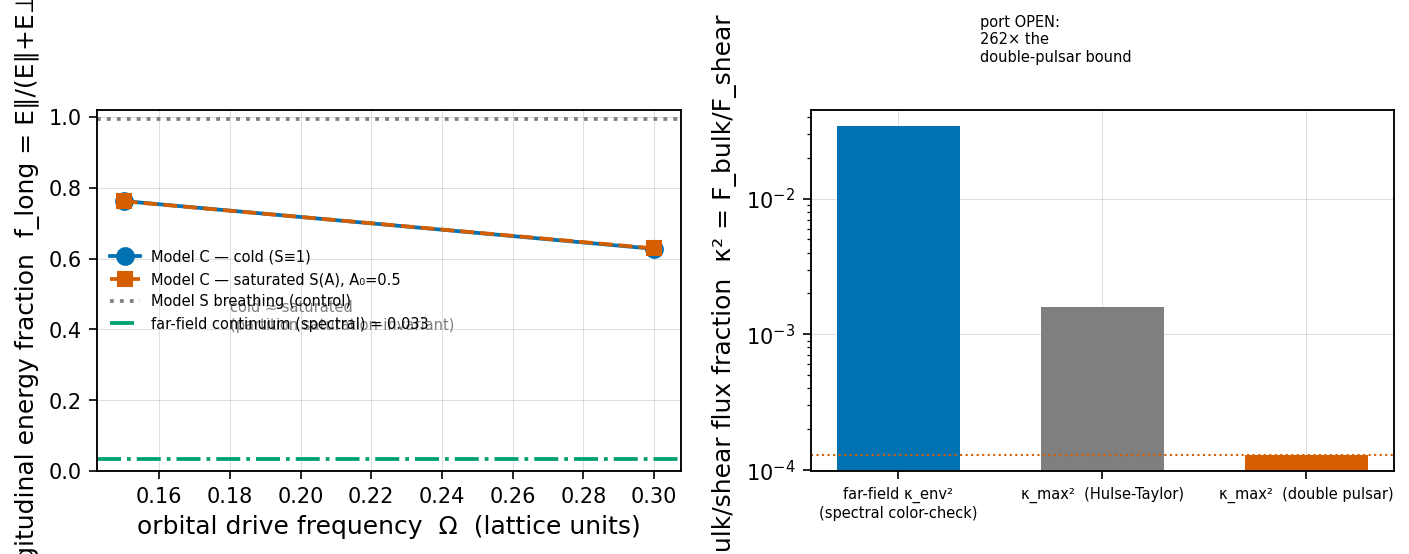
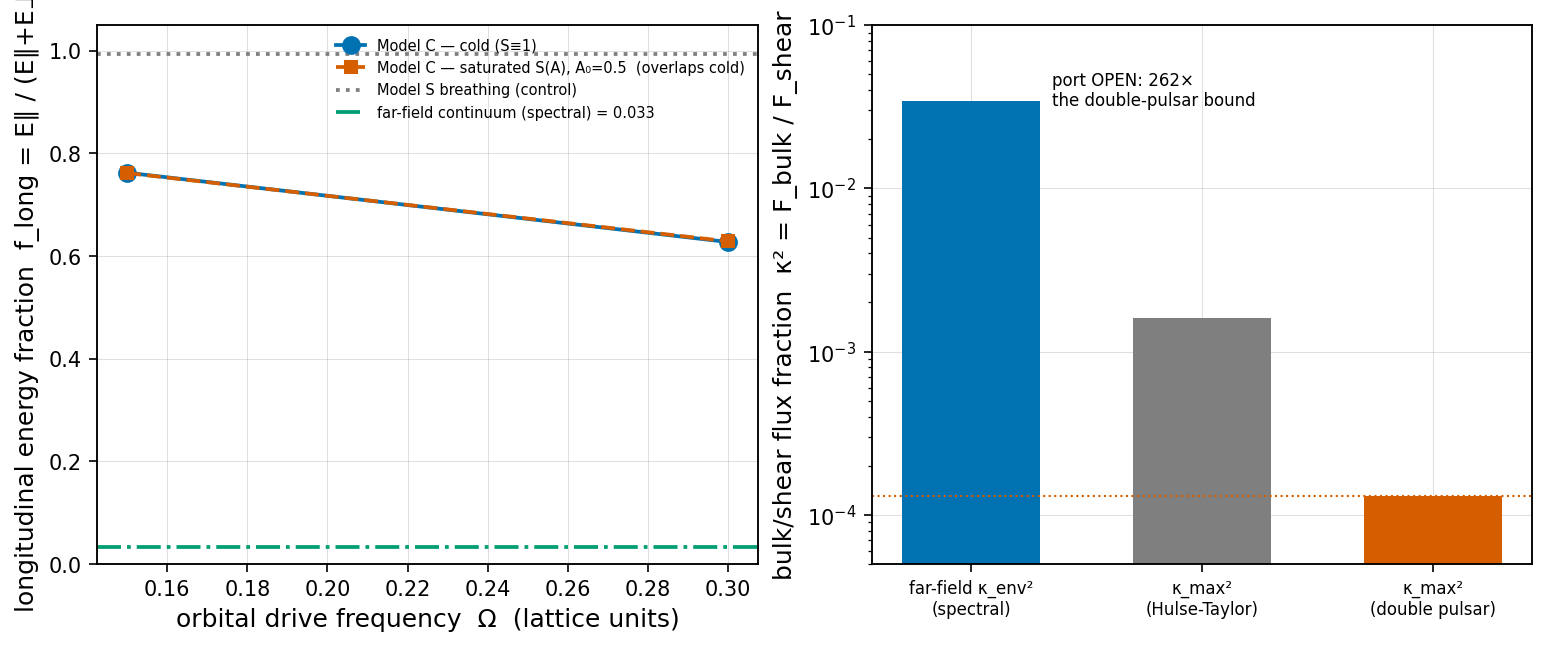
research(driver): figure layout fix (unclip y-labels, declutter legend) — plotting-only, JSON bit-identical
Plotting-only change (subplots_adjust margins, legend to upper-right, tightened
annotations). Confirmed JSON UNCHANGED (numeric results bit-identical). White
style, Okabe-Ito, honest axes+units, no on-figure title. The figure shows Model C
cold/saturated overlapping exactly (saturation-invariance) and the far-field
kappa_env^2=0.034 towering 262x over the double-pulsar kill-line.

diff --git a/research/drivers/envelope_sector_orbiting_lump.py b/research/drivers/envelope_sector_orbiting_lump.py
@@ -322,38 +322,35 @@ def make_figure(out, path_png):
     cc = out["spectral_cold"]["continuum_import_colorcheck_F_bulk_over_F_shear"]
     fl_ff = cc / (1.0 + cc)   # far-field longitudinal fraction from the color-check
 
-    fig, (axL, axR) = plt.subplots(1, 2, figsize=(9.6, 3.9))
+    fig, (axL, axR) = plt.subplots(1, 2, figsize=(10.2, 4.2))
+    fig.subplots_adjust(left=0.11, right=0.98, bottom=0.15, top=0.90, wspace=0.32)
 
     axL.plot(oms, fl_cold, "o-", color=C["ave"], label="Model C — cold (S≡1)", ms=8)
     axL.plot(oms, fl_sat, "s--", color=C["comparison"],
-             label="Model C — saturated S(A), A₀=0.5", ms=7)
+             label="Model C — saturated S(A), A₀=0.5  (overlaps cold)", ms=6)
     axL.axhline(out["model_S_breathing_control"]["f_long_window"], color=C["muted"],
                 ls=":", label="Model S breathing (control)")
     axL.axhline(fl_ff, color=C["accent"], ls="-.",
                 label=f"far-field continuum (spectral) = {fl_ff:.3f}")
     axL.set_xlabel("orbital drive frequency  Ω  (lattice units)")
-    axL.set_ylabel("longitudinal energy fraction  f_long = E∥/(E∥+E⊥)")
-    axL.set_ylim(0, 1.02)
-    axL.legend(loc="center left", bbox_to_anchor=(0.0, 0.5), fontsize=7,
-               frameon=False)
-    axL.annotate("cold ≈ saturated\n(partition saturation-invariant)",
-                 xy=(0.225, 0.70), xytext=(0.18, 0.40), fontsize=7,
-                 color=C["muted"])
+    axL.set_ylabel("longitudinal energy fraction  f_long = E∥ / (E∥+E⊥)")
+    axL.set_ylim(0, 1.05)
+    axL.legend(loc="upper right", fontsize=7, frameon=False)
 
-    labels = ["far-field κ_env²\n(spectral color-check)",
-              "κ_max²  (Hulse-Taylor)", "κ_max²  (double pulsar)"]
+    labels = ["far-field κ_env²\n(spectral)", "κ_max²\n(Hulse-Taylor)",
+              "κ_max²\n(double pulsar)"]
     vals = [cc, 1.6e-3, 1.3e-4]
     cols = [C["ave"], C["muted"], C["comparison"]]
     axR.bar(range(3), vals, color=cols, width=0.6)
     axR.set_yscale("log")
     axR.set_xticks(range(3))
-    axR.set_xticklabels(labels, fontsize=7)
-    axR.set_ylabel("bulk/shear flux fraction  κ² = F_bulk/F_shear")
+    axR.set_xticklabels(labels, fontsize=8)
+    axR.set_ylabel("bulk/shear flux fraction  κ² = F_bulk / F_shear")
+    axR.set_ylim(5e-5, 1e-1)
     axR.axhline(1.3e-4, color=C["comparison"], ls=":", lw=1)
-    axR.annotate(f"port OPEN:\n{cc/1.3e-4:.0f}× the\ndouble-pulsar bound",
-                 xy=(0, cc), xytext=(0.4, cc * 3), fontsize=7, color=C["data"])
+    axR.annotate(f"port OPEN: {cc / 1.3e-4:.0f}×\nthe double-pulsar bound",
+                 xy=(0, cc), xytext=(0.35, 3.2e-2), fontsize=8, color=C["data"])
 
-    fig.tight_layout()
     fig.savefig(path_png, dpi=150, bbox_inches="tight")
     fig.savefig(str(Path(path_png).with_suffix(".pdf")), bbox_inches="tight")
     plt.close(fig)
